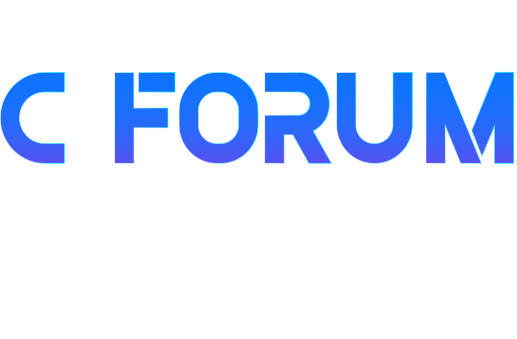
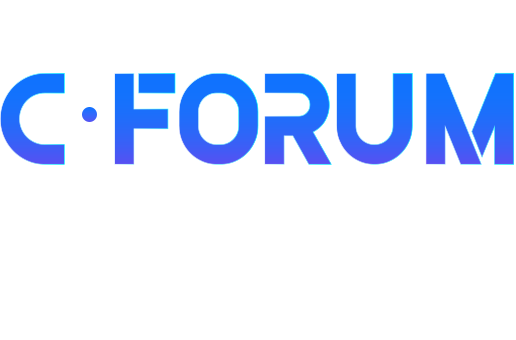
수정 작업 완료

diff --git a/resources/js/application.js b/resources/js/application.js
@@ -1,0 +1,48 @@
+// 사전 신청 페이지 페이지 나가기 버튼 동작 스크립트
+let exit_btn = document.querySelector('#container .application .exit_btn');
+let exit_pop = document.querySelector('#container .exit_pop');
+
+exit_btn.addEventListener('click',() => {
+    exit_pop.classList.add('on');
+});
+exit_pop.querySelector('div button').addEventListener('click', () => {
+    exit_pop.classList.remove('on');
+});
+
+// 사전 신청 페이지 제출버튼 클릭시 필수 입력사항 체크 동작 스크립트
+let submit_btn = document.querySelector('#container .application .submit_btn');
+let require = document.querySelectorAll('#container .application ul .require');
+let check_box = document.querySelector('#container .application label input');
+let require_pop = document.querySelector('#container .require_pop');
+let require_context = ['이름을','소속을','직급을','연락처를','이메일을'];
+
+require_pop.querySelector('div button').addEventListener('click',() => {
+    require_pop.classList.remove('on');
+});
+
+submit_btn.addEventListener('click',() => {
+    // 필수입력사항 안썼을 때 팝업 출력
+    require.forEach((item, index) => {
+        if(item.querySelector('div input').value.length == 0) {
+            require_pop.querySelector('div h4').innerHTML = require_context[index] + ' 입력해 주세요.';
+            require_pop.classList.add('on');
+        }
+    });
+    // 개인정보 동의 안했을 때 팝업 출력
+    if(!check_box.checked) {
+        require_pop.querySelector('div h4').innerHTML = '개인정보 이용 동의는 필수입니다.';
+        require_pop.classList.add('on');
+    }
+});
+
+// 정규표현식으로 특수문자(-.@ 제외한 나머지) 출력 막기
+let input_box = document.querySelectorAll('#container .application ul li input')
+let input_test = /[\{\}\[\]\/?,;:|\)*~`!^\_+<>\#$%&\\\=\(\'\"]/g;
+
+input_box.forEach((item, index) => {
+    item.addEventListener('keyup',() => {
+        if (input_test.test(item.value)) {
+            item.value = item.value.substring( 0 , item.value.length - 1 ); 
+        }
+    });
+});

diff --git a/pages/application.html b/pages/application.html
@@ -13,7 +13,7 @@
             <h2>C FORUM 사전신청</h2>
         </div>
         <div class="inner application">
-            <button class="exit_btn"></button>
+            <button class="exit_btn button" type="button"></button>
             <div>
                 <h3>신청자 정보입력</h3>
                 <p>[ 모든 입력사항은 필수로 기입해주세요 ]</p>
@@ -90,8 +90,8 @@
             <div>
                 <h4>C FORUM 사전 신청 작성 페이지를<br>나가시겠습니까?</h4>
                 <div>
-                    <button type="button" class="button">아니요</button>
-                    <a href="#" class="button">확인</a>
+                    <button type="button" class="button no_btn">아니요</button>
+                    <button type="button" class="button">확인</button>
                 </div>
             </div>
         </article>
@@ -104,6 +104,6 @@
             <li>© 씨엔티테크 CO.LTD ALL RIGHT RESERVED.</li>
         </ul>
     </div>
-    <script src="../resources/js/ui.js"></script>
+    <script src="../resources/js/application.js"></script>
 </body>
 </html>

diff --git a/pages/index.html b/pages/index.html
@@ -11,8 +11,9 @@
     <div id="container">
         <div class="inner main">
             <div class="logo_wrap">
-                <a href="#"><img src="../resources/img/common/ico_logo_chosunBiz.png" alt="조선비즈 로고"></a>
                 <a href="#"><img src="../resources/img/common/ico_logo_cnttech.png" alt="씨엔티테크 로고"></a>
+                <a href="#"><img src="../resources/img/common/ico_logo_chosunBiz.png" alt="조선비즈 로고"></a>
+                <a href="#"><img src="../resources/img/common/ico_logo_cForum.png" alt="C FORUM 로고"></a>
             </div>
             <h1 class="title"><img src="../resources/img/common/img_pc_title.png" alt="2023 C FORUM 이상, 그 이상, 투자, 이상을 현실로 이끌다"></h1>    
             <p>C Forum은 스타트업창업과 투자에 대한<br class="mobile"> 지식과 경험을 나누며, <br class="pc">건강한 창업과 투자문화를 조성하고자 하는 포럼으로, <br><span>씨엔티테크 20주년을 기점으로 자사의 경험과 <br class="mobile">인사이트를 공유하기 위해설립되었습니다.</span></p>

diff --git a/resources/js/application_inquiry.js b/resources/js/application_inquiry.js
@@ -1,0 +1,24 @@
+// 사전 신청 페이지 텍스트 갯수 출력 동작 스크립트
+let application_text_count = document.querySelectorAll('#container .application ul li .text_count');
+let num = 0;
+text_count (application_text_count, num)
+
+// 사전 신청 내역 조회 페이지 텍스트 갯수 출력 동작 스크립트
+let list_text_count = document.querySelectorAll('#container .application_inquiry ul li .text_count');
+let list_num = 0;
+text_count (list_text_count, list_num)
+
+// 텍스트 갯수 출력 동작 함수
+function text_count (input_box, dummy_num) {
+    input_box.forEach((item, index) => {
+        item.querySelector('input').addEventListener('keyup',() => {
+            dummy_num = item.querySelector('input').value.length;
+            if (dummy_num > 20 || dummy_num == 20){
+                item.querySelector('span').innerHTML = '20/20';
+            }
+            else {
+                item.querySelector('span').innerHTML = dummy_num+'/20';
+            }
+        });
+    });
+}

diff --git a/pages/application_list.html b/pages/application_list.html
@@ -168,12 +168,12 @@
         </div>
         <!-- popup -->
         <!-- article 태그에 class on이 붙으면 화면에 나타납니다. -->
-        <article class="pop_card">
+        <article class="pop_card delete_pop">
             <i class="pop_bg" aria-hidden="true"></i>
             <div>
                 <h4>C FORUM 사전 신청자 명단을 <br>삭제하시겠습니까?</h4>
                 <div>
-                    <button type="button" class="button">아니요</button>
+                    <button type="button" class="button no_btn">아니요</button>
                     <button type="button" class="button">확인</button>
                 </div>
             </div>
@@ -187,5 +187,6 @@
             <li>© 씨엔티테크 CO.LTD ALL RIGHT RESERVED.</li>
         </ul>
     </div>
+    <script src="../resources/js/application_list.js"></script>
 </body>
 </html>

diff --git a/resources/js/application_list.js b/resources/js/application_list.js
@@ -1,0 +1,18 @@
+// 사전신청 리스트 삭제 버튼 동작 스크립트
+let delete_pop = document.querySelector('#container .delete_pop');
+let pc_del_btn = document.querySelectorAll('#container .application_list .pc_list tbody tr td button');
+let m_del_btn = document.querySelectorAll('#container .application_list .mobile_list ul li button');
+
+pc_del_btn.forEach((item, index) => {
+    item.addEventListener('click',() => {
+        delete_pop.classList.add('on');
+    });
+});
+m_del_btn.forEach((item, index) => {
+    item.addEventListener('click',() => {
+        delete_pop.classList.add('on');
+    });
+});
+delete_pop.querySelector("div .no_btn").addEventListener('click',() => {
+    delete_pop.classList.remove('on');
+});

diff --git a/resources/scss/_reset.scss b/resources/scss/_reset.scss
@@ -27,7 +27,7 @@ input {outline:0}
 }
 
 // 아이콘 관련 링크
-@import url("https://cdnjs.cloudflare.com/ajax/libs/font-awesome/6.3.0/css/all.min.css");
+// @import url("https://cdnjs.cloudflare.com/ajax/libs/font-awesome/6.3.0/css/all.min.css");
 
 // 폰트 관련 링크
 @import url('https://fonts.googleapis.com/css2?family=Noto+Sans+KR:wght@100;300;400;500;700;900&display=swap');

diff --git a/resources/scss/_layout.scss b/resources/scss/_layout.scss
@@ -874,7 +874,7 @@
                     a {
                         &:last-child {margin-left:1.5rem;}
                         display:block;
-                        width:5.4rem; height:1.7rem;
+                        width:5rem; height:1.7rem;
                         img {
                             vertical-align:super;
                         }

diff --git a/pages/application_inquiry.html b/pages/application_inquiry.html
@@ -71,6 +71,6 @@
             <li>© 씨엔티테크 CO.LTD ALL RIGHT RESERVED.</li>
         </ul>
     </div>
-    <script src="../resources/js/ui.js"></script>
+    <script src="../resources/js/application_inquiry.js"></script>
 </body>
 </html>
